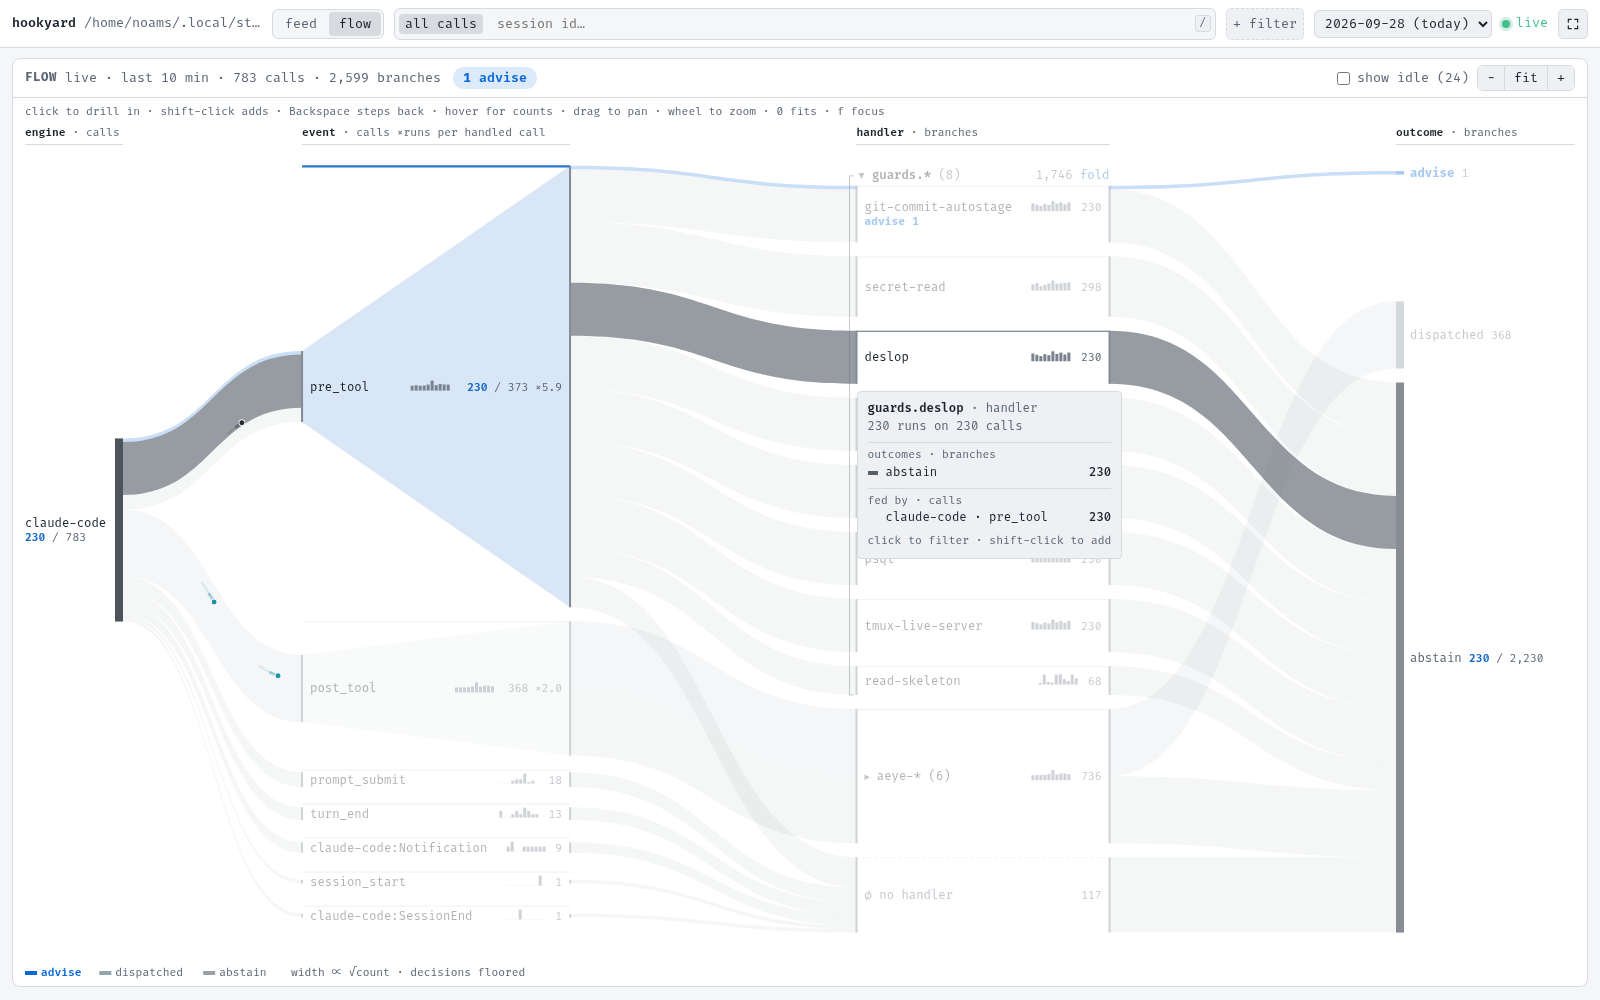
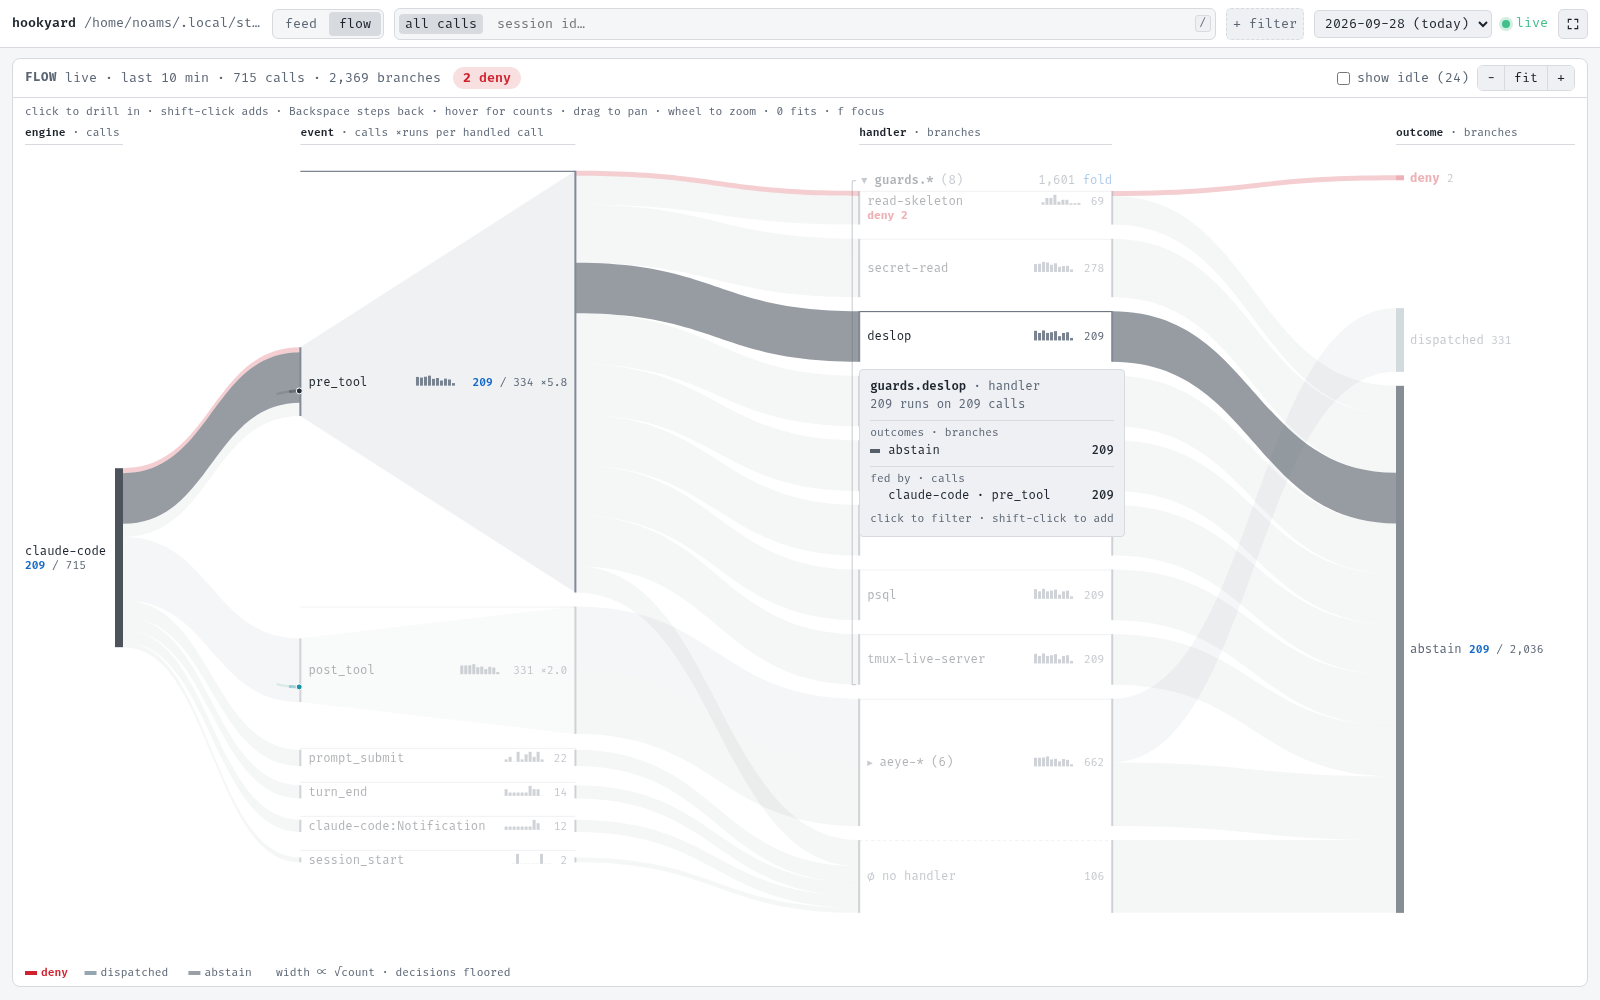
fix(serve): a fan-out event's arrival flash lights its gate, not a straight rule across it

diff --git a/internal/serve/assets/flow/flow.css b/internal/serve/assets/flow/flow.css
@@ -1,1 +1,1 @@
-.flow-panel .panel-header{flex-wrap:wrap;align-items:center;row-gap:6px;padding:6px 12px}.flow-meta{font-variant-numeric:tabular-nums}.flow-decisions{display:inline-flex;flex-wrap:wrap;gap:6px;margin-left:4px}.flow-decisions .dec{color:var(--oc);background:color-mix(in oklab,var(--oc) 14%,transparent);border:1px solid transparent;border-radius:12px;padding:2px 9px;font-weight:600;white-space:nowrap}@media(max-width:700px){.flow-hint{display:none}}.flow-decisions .dec:hover{border-color:var(--oc)}.flow-decisions .dec[aria-pressed=true]{background:var(--oc);color:var(--bg-panel)}.flow-decisions .dec b{font-weight:700}.flow-error{color:var(--c-error)}.flow-error:empty{display:none}.flow-idle{margin-left:auto;display:flex;align-items:center;gap:4px;color:var(--fg-dim);white-space:nowrap}.flow-zoom{display:inline-flex;border:1px solid var(--border);border-radius:6px;overflow:hidden}.flow-zoom button{border:none;border-radius:0;padding:3px 9px}.flow-zoom button+button{border-left:1px solid var(--border)}.flow-details-toggle{padding:3px 10px}.flow-details-toggle[aria-pressed=true]{border-color:var(--accent);color:var(--accent)}.flow-details-toggle[hidden]{display:none}.flow-hint{margin:6px 12px 0}[data-o]{--oc: var(--fg-dim)}[data-o=deny]{--oc: var(--c-deny)}[data-o=ask]{--oc: var(--c-ask)}[data-o=advise]{--oc: var(--c-advise)}[data-o=allow]{--oc: var(--c-allow)}[data-o=timeout]{--oc: var(--c-timeout)}[data-o=error],[data-o=router-error]{--oc: var(--c-error)}[data-o=suppressed]{--oc: color-mix(in oklab, var(--c-suppressed) 35%, var(--c-abstain))}[data-o=dispatched]{--oc: color-mix(in oklab, var(--c-dispatched) 30%, var(--c-abstain))}[data-o=abstain]{--oc: var(--c-abstain)}.flow-body{position:relative;min-height:420px;overflow:hidden;cursor:grab;touch-action:pan-y}.flow-body.zoomed{touch-action:none}.flow-body.panning{cursor:grabbing;user-select:none}.flow-body.panning .flow-node .hit,.flow-body.panning .flow-group-open .hit{cursor:grabbing}.flow-svg{display:block;font-family:inherit}.flow-fit{font:inherit;padding:0 8px}.flow-svg text{font-size:12px;fill:var(--fg)}.flow-empty{position:absolute;inset:45% 0 auto;margin:0;text-align:center}.flow-colhead text{font-size:11px}.flow-colhead .h-name{fill:var(--fg);font-weight:600}.flow-colhead .h-what{fill:var(--fg-dim)}.colhead-bg{fill:transparent}.colrule{stroke:var(--border)}.band{fill:var(--oc);fill-opacity:.2;stroke:none;transition:fill-opacity .12s}.band.loud{fill-opacity:.88}.flow-body.hl .l-bands .band{fill-opacity:.06}.flow-body.hl .l-bands .band.loud{fill-opacity:.22}.l-over{pointer-events:none}.l-over .band{fill-opacity:.6}.l-over .band.loud{fill-opacity:1;stroke:var(--bg-panel);stroke-width:.75}.mono .l-bands .band{fill-opacity:calc(.18 + .62 * var(--share, 1));stroke:var(--oc);stroke-width:.75;stroke-opacity:.9}.mono .l-bands .band.thin{fill-opacity:max(.5,calc(.18 + .62 * var(--share, 1)));stroke:none}.mono.flow-svg .l-bands .band{transition:none}.flow-body.hl .mono .l-bands .band{fill-opacity:.08;stroke-opacity:.3}.bar{fill:color-mix(in oklab,var(--fg-dim) 80%,var(--bg-panel))}.bar[data-o=loud]{fill:color-mix(in oklab,var(--fg) 75%,var(--bg-panel))}.k-outcome .bar{fill:var(--oc)}.k-outcome .bar:is([data-o=abstain],[data-o=dispatched],[data-o=suppressed]){fill:color-mix(in oklab,var(--oc) 70%,var(--bg-panel))}.rule{stroke:var(--border);stroke-width:1}.k-pseudo .rule{stroke-dasharray:3 3}.ghost .rule{stroke-dasharray:2 2}.gate{fill:color-mix(in oklab,var(--fg-dim) 9%,transparent)}.port{fill:color-mix(in oklab,var(--fg-dim) 75%,var(--bg-panel))}.flow-node .hit{fill:transparent;cursor:pointer}.k-pseudo .hit{cursor:default}.flow-node.selected .rule{stroke:var(--accent);stroke-width:2}@keyframes flow-flash-rule{0%{stroke:var(--accent);stroke-width:2.5px}to{stroke:var(--border);stroke-width:1px}}@keyframes flow-flash-gate{0%{fill:color-mix(in oklab,var(--accent) 18%,transparent)}to{fill:color-mix(in oklab,var(--fg-dim) 9%,transparent)}}@keyframes flow-flash-bar{0%{stroke-width:6px;stroke-opacity:.8}to{stroke-width:0;stroke-opacity:0}}.flow-node.flash .rule{animation:flow-flash-rule 1.5s ease-out}.flow-node.flash .gate{animation:flow-flash-gate 1.5s ease-out}.k-outcome.flash .bar{stroke:var(--oc);animation:flow-flash-bar 1.5s ease-out}.flow-body.hl .flow-node:not(.on){opacity:.35}.flow-body.hl .flow-node.on .rule{stroke:var(--fg-dim)}.flow-node .hit:focus{outline:none}.flow-node .hit:focus-visible{stroke:var(--accent);stroke-width:1}.l-labels{pointer-events:none}.label .nm{fill:var(--fg)}.label .nm.quiet{fill:var(--fg-dim)}.label .nm.loud{fill:var(--oc);font-weight:700}.label.idle .nm{fill:var(--fg-dim);font-weight:400}.label.selected .nm{text-decoration:underline;text-decoration-color:var(--accent);text-decoration-thickness:2px}.label.selected:not(.k-outcome) .nm{fill:var(--accent)}.label .cnt,.label .caret,.label .fan{fill:var(--fg-dim);font-size:11px;font-variant-numeric:tabular-nums}.label .cnt.hl{fill:var(--accent);font-weight:600}.label .dec-o{fill:var(--oc);font-weight:700;font-size:11px}.label .dec-who{fill:color-mix(in oklab,var(--oc) 55%,var(--fg));font-size:11px}.flow-body.hl .label:not(.on){opacity:.35}.k-engine.label .nm,.k-outcome.label .nm,.k-outcome.label .cnt,.k-engine.label .cnt{paint-order:stroke;stroke:var(--bg-panel);stroke-width:3px;stroke-linejoin:round}.spark{fill:color-mix(in oklab,var(--fg-dim) 80%,var(--bg-panel))}.spark.zero{fill:var(--border)}.flow-group-open .bracket{fill:none;stroke:var(--fg-dim);stroke-width:1}.flow-group-open .hit{cursor:pointer}.flow-group-open[data-forced=true] .hit{cursor:default}.grouphead{font-size:11px;pointer-events:none}.grouphead .nm{fill:var(--fg);font-weight:600}.grouphead .cnt,.grouphead .caret{fill:var(--fg-dim)}.grouphead .fold{fill:var(--accent)}.flow-group-open:hover .fold{text-decoration:underline}.l-legend text{font-size:11px}.l-legend .lg{fill:var(--fg-dim)}.l-legend .lg-loud{fill:var(--oc);font-weight:600}.l-legend .swatch{fill:var(--oc)}.l-legend .swatch:is([data-o=abstain],[data-o=dispatched],[data-o=suppressed]){fill-opacity:.6}.flow-dot{fill:var(--fg);fill-opacity:.9;stroke:var(--bg-panel);stroke-width:1;pointer-events:none}.flow-trail{fill:none;stroke:var(--fg);stroke-linecap:round;stroke-linejoin:round;pointer-events:none}.flow-trail.near{stroke-opacity:.35}.flow-trail.far{stroke-opacity:.12}.flow-dot[data-o=dispatched]{fill:var(--c-dispatched)}.flow-trail[data-o=dispatched]{stroke:var(--c-dispatched)}.flow-dot:is([data-o=deny],[data-o=ask],[data-o=advise],[data-o=allow],[data-o=timeout],[data-o=error],[data-o=router-error]){fill:color-mix(in oklab,var(--oc) 65%,var(--fg));fill-opacity:1}.flow-trail:is([data-o=deny],[data-o=ask],[data-o=advise],[data-o=allow],[data-o=timeout],[data-o=error],[data-o=router-error]){stroke:var(--oc)}.flow-tip{position:absolute;z-index:5;pointer-events:none;min-width:240px;max-width:360px;padding:8px 10px;background:var(--bg-raised);border:1px solid var(--border);border-radius:4px;font-size:12px;line-height:1.5}.flow-tip .tt-title{font-weight:600}.flow-tip .tt-fact{color:var(--fg-dim)}.flow-tip .tt-sec{color:var(--fg-dim);font-size:11px;margin-top:6px;border-top:1px solid var(--border);padding-top:4px}.flow-tip .tt-row{display:flex;gap:8px;align-items:center;font-variant-numeric:tabular-nums}.flow-tip .tt-l{flex:1;min-width:0;overflow:hidden;text-overflow:ellipsis;white-space:nowrap}.flow-tip .tt-row.loud .tt-l{color:var(--oc);font-weight:700}.flow-tip .tt-note{font-size:11px;white-space:nowrap}.flow-tip .tt-note span{color:var(--oc);font-weight:600}.flow-tip .tt-row b{font-weight:500}.flow-tip .sw{width:10px;height:4px;flex:none}.flow-tip .sw[data-o]{background:var(--oc)}.flow-tip .tt-hint{color:var(--fg-dim);font-size:11px;margin-top:6px}
+.flow-panel .panel-header{flex-wrap:wrap;align-items:center;row-gap:6px;padding:6px 12px}.flow-meta{font-variant-numeric:tabular-nums}.flow-decisions{display:inline-flex;flex-wrap:wrap;gap:6px;margin-left:4px}.flow-decisions .dec{color:var(--oc);background:color-mix(in oklab,var(--oc) 14%,transparent);border:1px solid transparent;border-radius:12px;padding:2px 9px;font-weight:600;white-space:nowrap}@media(max-width:700px){.flow-hint{display:none}}.flow-decisions .dec:hover{border-color:var(--oc)}.flow-decisions .dec[aria-pressed=true]{background:var(--oc);color:var(--bg-panel)}.flow-decisions .dec b{font-weight:700}.flow-error{color:var(--c-error)}.flow-error:empty{display:none}.flow-idle{margin-left:auto;display:flex;align-items:center;gap:4px;color:var(--fg-dim);white-space:nowrap}.flow-zoom{display:inline-flex;border:1px solid var(--border);border-radius:6px;overflow:hidden}.flow-zoom button{border:none;border-radius:0;padding:3px 9px}.flow-zoom button+button{border-left:1px solid var(--border)}.flow-details-toggle{padding:3px 10px}.flow-details-toggle[aria-pressed=true]{border-color:var(--accent);color:var(--accent)}.flow-details-toggle[hidden]{display:none}.flow-hint{margin:6px 12px 0}[data-o]{--oc: var(--fg-dim)}[data-o=deny]{--oc: var(--c-deny)}[data-o=ask]{--oc: var(--c-ask)}[data-o=advise]{--oc: var(--c-advise)}[data-o=allow]{--oc: var(--c-allow)}[data-o=timeout]{--oc: var(--c-timeout)}[data-o=error],[data-o=router-error]{--oc: var(--c-error)}[data-o=suppressed]{--oc: color-mix(in oklab, var(--c-suppressed) 35%, var(--c-abstain))}[data-o=dispatched]{--oc: color-mix(in oklab, var(--c-dispatched) 30%, var(--c-abstain))}[data-o=abstain]{--oc: var(--c-abstain)}.flow-body{position:relative;min-height:420px;overflow:hidden;cursor:grab;touch-action:pan-y}.flow-body.zoomed{touch-action:none}.flow-body.panning{cursor:grabbing;user-select:none}.flow-body.panning .flow-node .hit,.flow-body.panning .flow-group-open .hit{cursor:grabbing}.flow-svg{display:block;font-family:inherit}.flow-fit{font:inherit;padding:0 8px}.flow-svg text{font-size:12px;fill:var(--fg)}.flow-empty{position:absolute;inset:45% 0 auto;margin:0;text-align:center}.flow-colhead text{font-size:11px}.flow-colhead .h-name{fill:var(--fg);font-weight:600}.flow-colhead .h-what{fill:var(--fg-dim)}.colhead-bg{fill:transparent}.colrule{stroke:var(--border)}.band{fill:var(--oc);fill-opacity:.2;stroke:none;transition:fill-opacity .12s}.band.loud{fill-opacity:.88}.flow-body.hl .l-bands .band{fill-opacity:.06}.flow-body.hl .l-bands .band.loud{fill-opacity:.22}.l-over{pointer-events:none}.l-over .band{fill-opacity:.6}.l-over .band.loud{fill-opacity:1;stroke:var(--bg-panel);stroke-width:.75}.mono .l-bands .band{fill-opacity:calc(.18 + .62 * var(--share, 1));stroke:var(--oc);stroke-width:.75;stroke-opacity:.9}.mono .l-bands .band.thin{fill-opacity:max(.5,calc(.18 + .62 * var(--share, 1)));stroke:none}.mono.flow-svg .l-bands .band{transition:none}.flow-body.hl .mono .l-bands .band{fill-opacity:.08;stroke-opacity:.3}.bar{fill:color-mix(in oklab,var(--fg-dim) 80%,var(--bg-panel))}.bar[data-o=loud]{fill:color-mix(in oklab,var(--fg) 75%,var(--bg-panel))}.k-outcome .bar{fill:var(--oc)}.k-outcome .bar:is([data-o=abstain],[data-o=dispatched],[data-o=suppressed]){fill:color-mix(in oklab,var(--oc) 70%,var(--bg-panel))}.rule{stroke:var(--border);stroke-width:1}.k-pseudo .rule{stroke-dasharray:3 3}.ghost .rule{stroke-dasharray:2 2}.gate{fill:color-mix(in oklab,var(--fg-dim) 9%,transparent)}.port{fill:color-mix(in oklab,var(--fg-dim) 75%,var(--bg-panel))}.flow-node .hit{fill:transparent;cursor:pointer}.k-pseudo .hit{cursor:default}.flow-node.selected .rule{stroke:var(--accent);stroke-width:2}@keyframes flow-flash-rule{0%{stroke:var(--accent);stroke-width:2.5px}to{stroke:var(--border);stroke-width:1px}}@keyframes flow-flash-gate{0%{fill:color-mix(in oklab,var(--accent) 18%,transparent)}to{fill:color-mix(in oklab,var(--fg-dim) 9%,transparent)}}@keyframes flow-flash-bar{0%{stroke-width:6px;stroke-opacity:.8}to{stroke-width:0;stroke-opacity:0}}.flow-node.flash:not(:has(.gate)) .rule{animation:flow-flash-rule 1.5s ease-out}.flow-node.flash .gate{animation:flow-flash-gate 1.5s ease-out}.k-outcome.flash .bar{stroke:var(--oc);animation:flow-flash-bar 1.5s ease-out}.flow-body.hl .flow-node:not(.on){opacity:.35}.flow-body.hl .flow-node.on .rule{stroke:var(--fg-dim)}.flow-node .hit:focus{outline:none}.flow-node .hit:focus-visible{stroke:var(--accent);stroke-width:1}.l-labels{pointer-events:none}.label .nm{fill:var(--fg)}.label .nm.quiet{fill:var(--fg-dim)}.label .nm.loud{fill:var(--oc);font-weight:700}.label.idle .nm{fill:var(--fg-dim);font-weight:400}.label.selected .nm{text-decoration:underline;text-decoration-color:var(--accent);text-decoration-thickness:2px}.label.selected:not(.k-outcome) .nm{fill:var(--accent)}.label .cnt,.label .caret,.label .fan{fill:var(--fg-dim);font-size:11px;font-variant-numeric:tabular-nums}.label .cnt.hl{fill:var(--accent);font-weight:600}.label .dec-o{fill:var(--oc);font-weight:700;font-size:11px}.label .dec-who{fill:color-mix(in oklab,var(--oc) 55%,var(--fg));font-size:11px}.flow-body.hl .label:not(.on){opacity:.35}.k-engine.label .nm,.k-outcome.label .nm,.k-outcome.label .cnt,.k-engine.label .cnt{paint-order:stroke;stroke:var(--bg-panel);stroke-width:3px;stroke-linejoin:round}.spark{fill:color-mix(in oklab,var(--fg-dim) 80%,var(--bg-panel))}.spark.zero{fill:var(--border)}.flow-group-open .bracket{fill:none;stroke:var(--fg-dim);stroke-width:1}.flow-group-open .hit{cursor:pointer}.flow-group-open[data-forced=true] .hit{cursor:default}.grouphead{font-size:11px;pointer-events:none}.grouphead .nm{fill:var(--fg);font-weight:600}.grouphead .cnt,.grouphead .caret{fill:var(--fg-dim)}.grouphead .fold{fill:var(--accent)}.flow-group-open:hover .fold{text-decoration:underline}.l-legend text{font-size:11px}.l-legend .lg{fill:var(--fg-dim)}.l-legend .lg-loud{fill:var(--oc);font-weight:600}.l-legend .swatch{fill:var(--oc)}.l-legend .swatch:is([data-o=abstain],[data-o=dispatched],[data-o=suppressed]){fill-opacity:.6}.flow-dot{fill:var(--fg);fill-opacity:.9;stroke:var(--bg-panel);stroke-width:1;pointer-events:none}.flow-trail{fill:none;stroke:var(--fg);stroke-linecap:round;stroke-linejoin:round;pointer-events:none}.flow-trail.near{stroke-opacity:.35}.flow-trail.far{stroke-opacity:.12}.flow-dot[data-o=dispatched]{fill:var(--c-dispatched)}.flow-trail[data-o=dispatched]{stroke:var(--c-dispatched)}.flow-dot:is([data-o=deny],[data-o=ask],[data-o=advise],[data-o=allow],[data-o=timeout],[data-o=error],[data-o=router-error]){fill:color-mix(in oklab,var(--oc) 65%,var(--fg));fill-opacity:1}.flow-trail:is([data-o=deny],[data-o=ask],[data-o=advise],[data-o=allow],[data-o=timeout],[data-o=error],[data-o=router-error]){stroke:var(--oc)}.flow-tip{position:absolute;z-index:5;pointer-events:none;min-width:240px;max-width:360px;padding:8px 10px;background:var(--bg-raised);border:1px solid var(--border);border-radius:4px;font-size:12px;line-height:1.5}.flow-tip .tt-title{font-weight:600}.flow-tip .tt-fact{color:var(--fg-dim)}.flow-tip .tt-sec{color:var(--fg-dim);font-size:11px;margin-top:6px;border-top:1px solid var(--border);padding-top:4px}.flow-tip .tt-row{display:flex;gap:8px;align-items:center;font-variant-numeric:tabular-nums}.flow-tip .tt-l{flex:1;min-width:0;overflow:hidden;text-overflow:ellipsis;white-space:nowrap}.flow-tip .tt-row.loud .tt-l{color:var(--oc);font-weight:700}.flow-tip .tt-note{font-size:11px;white-space:nowrap}.flow-tip .tt-note span{color:var(--oc);font-weight:600}.flow-tip .tt-row b{font-weight:500}.flow-tip .sw{width:10px;height:4px;flex:none}.flow-tip .sw[data-o]{background:var(--oc)}.flow-tip .tt-hint{color:var(--fg-dim);font-size:11px;margin-top:6px}

diff --git a/internal/serve/web/src/flow.css b/internal/serve/web/src/flow.css
@@ -96,11 +96,13 @@
 .flow-node .hit { fill: transparent; cursor: pointer; }
 .k-pseudo .hit { cursor: default; }
 .flow-node.selected .rule { stroke: var(--accent); stroke-width: 2; }
-/* a pulse's arrival: the event gate and the outcome bar flash, then decay */
+/* a pulse's arrival: the event gate and the outcome bar flash, then decay.
+   a gate node's rule follows neither of the gate's edges, so only a plate
+   with no gate flashes its rule -- the gate itself carries the cue there. */
 @keyframes flow-flash-rule { from { stroke: var(--accent); stroke-width: 2.5px; } to { stroke: var(--border); stroke-width: 1px; } }
 @keyframes flow-flash-gate { from { fill: color-mix(in oklab, var(--accent) 18%, transparent); } to { fill: color-mix(in oklab, var(--fg-dim) 9%, transparent); } }
 @keyframes flow-flash-bar { from { stroke-width: 6px; stroke-opacity: .8; } to { stroke-width: 0; stroke-opacity: 0; } }
-.flow-node.flash .rule { animation: flow-flash-rule 1.5s ease-out; }
+.flow-node.flash:not(:has(.gate)) .rule { animation: flow-flash-rule 1.5s ease-out; }
 .flow-node.flash .gate { animation: flow-flash-gate 1.5s ease-out; }
 .k-outcome.flash .bar { stroke: var(--oc); animation: flow-flash-bar 1.5s ease-out; }
 .flow-body.hl .flow-node:not(.on) { opacity: .35; }
